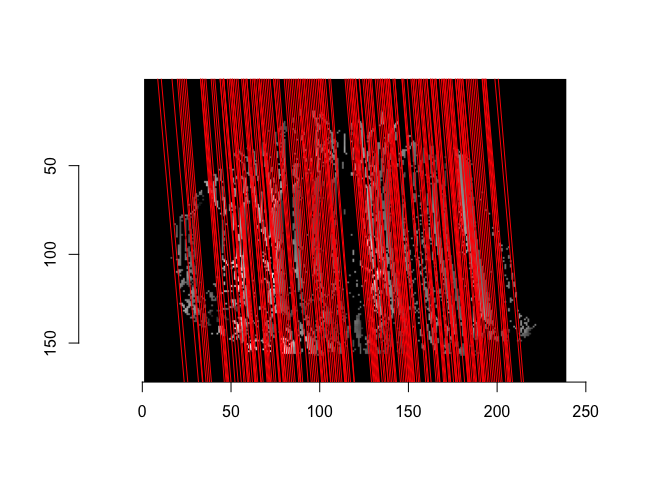
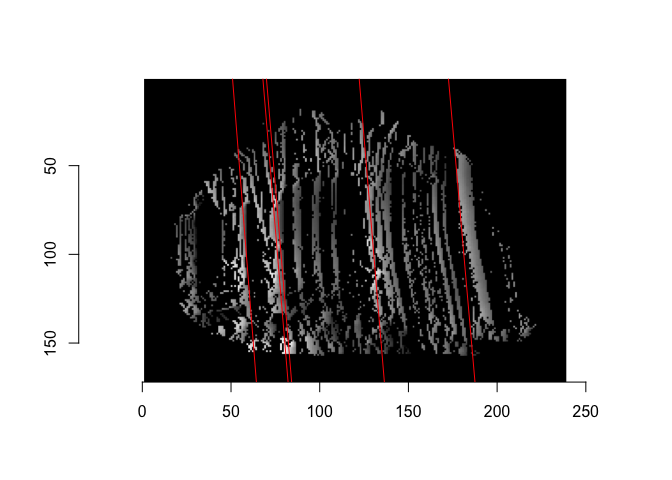
Fewer hough lines

Changed region(s): [[0.2188, 0.1562, 0.7812, 0.8125]]

diff --git a/README.md b/README.md
@@ -118,7 +118,7 @@ x3p_inner_impute
 We can rotate the surface to the correct angle by:
 
 ``` r
-x3p_bin_rotate <- x3p_vertical(x3p_inner_impute, min_score_cut = 0.1, ifplot = TRUE)
+x3p_bin_rotate <- x3p_vertical(x3p_inner_impute, min_score_cut = 5, ifplot = TRUE)
 ```
 
 <img src="man/figures/README-rotate-1.png" width="100%" /><img src="man/figures/README-rotate-2.png" width="100%" /><img src="man/figures/README-rotate-3.png" width="100%" /><img src="man/figures/README-rotate-4.png" width="100%" />
